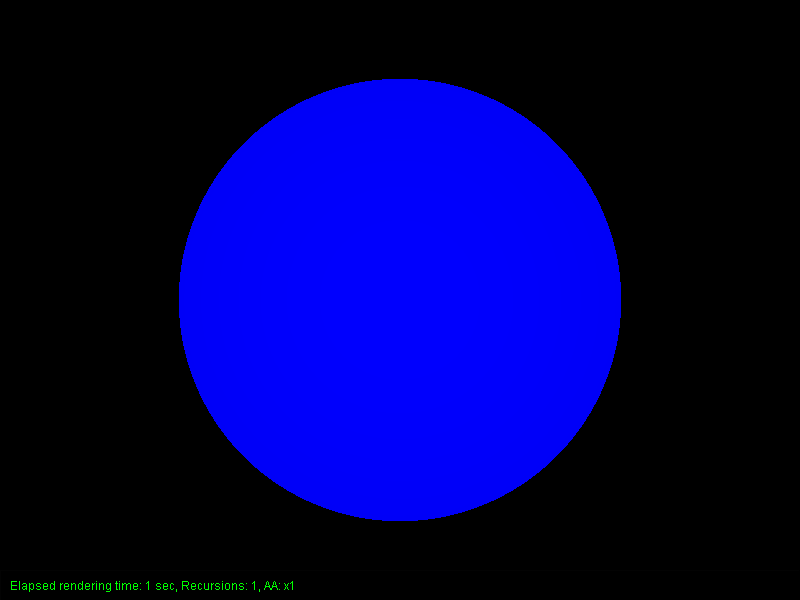
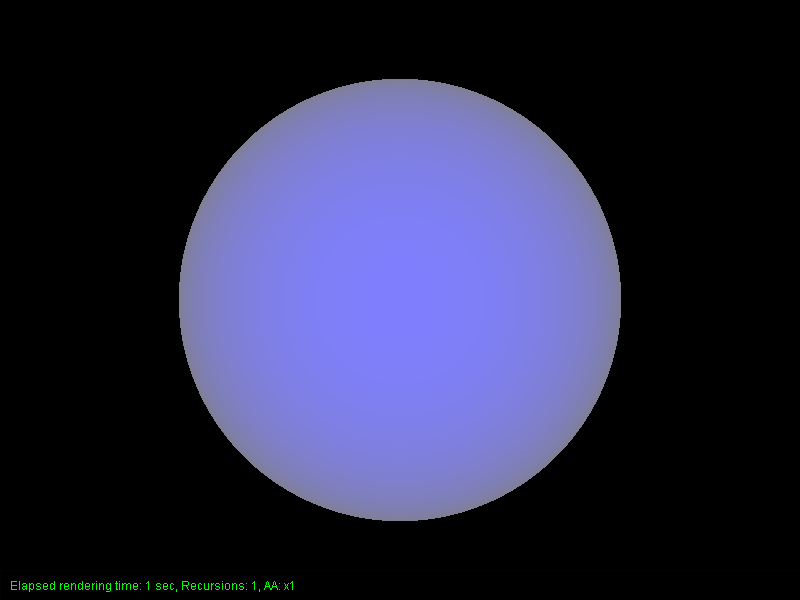
wip

diff --git a/VCG_Raytracer/src/raytracer/Raytracer.java b/VCG_Raytracer/src/raytracer/Raytracer.java
@@ -90,15 +90,37 @@ public class Raytracer {
     /** Create intersection instance **/
     public Intersection intersect(double hitValue, Ray ray, Shape shape) {
         Intersection intersection = new Intersection();
+        float rayTValue = ray.getT();
+        if (rayTValue == Float.NaN) {
+            intersection.setHit(false);
+            return intersection;
+        }
+        intersection.setShape(shape);
         if (hitValue >= 0)
             intersection.setHit(true);
         else
             intersection.setHit(false);
-        intersection.setShape(shape);
         if (intersection.isHit()) {
-            intersection.setIntersectionPoint(ray.getDirection().multScalar(ray.getT()));
+            intersection.setIntersectionPoint(ray.getStartPoint().add(ray.getDirection().multScalar(ray.getT())));
             intersection.setNormal(intersection.getIntersectionPoint().sub(shape.getCenter()));
         }
+        return intersection;
+    }
+
+    /** Check light intersection **/
+    public Intersection intersectLight(Vec3 _intersectionPoint, Light _light, Shape shape) {
+        Ray ray = new Ray(_intersectionPoint, _intersectionPoint.sub(_light.getPosition()), 1);
+        Intersection intersection = new Intersection();
+        Vec3 part1 = _light.getPosition().sub(_intersectionPoint);
+
+        // WIP NAMES CAN CHANGE
+        float part2 = part1.x + part1.y + part1.z;
+        float part3 = ray.getDirection().x + ray.getDirection().y + ray.getDirection().z;
+        float rayTValue = part2/part3;
+        ray.setT(rayTValue);
+        intersection.setIntersectionPoint(ray.getStartPoint().add(ray.getDirection().multScalar(ray.getT())));
+        intersection.setNormal(intersection.getIntersectionPoint().sub(shape.getCenter()));
+
         return intersection;
     }
 
@@ -110,7 +132,6 @@ public class Raytracer {
         double height = camera.getHeight();
         float screenHeight = camera.getScreenHeight();
         float screenWidth = camera.getScreenWidth();
-        ArrayList<Light> lights = mScene.getLights();
 
         // Set up variables for our raytracing
         float deltaX;
@@ -120,6 +141,7 @@ public class Raytracer {
         Vec3 direction;
         Vec3 cameraDirection;
         Vec3 lightVector;
+        RgbColor pixelColor = null;
 
         // Iterate through every pixel
         for(int y = 0; y < screenHeight; y++) {
@@ -143,19 +165,22 @@ public class Raytracer {
                      * If we hit the object, we paint another color
                      */
                     if (intersection.isHit()) {
-                        for (Light light : lights) {
+                        for (Light light : mScene.getLights()) {
+                            // Objekt das wir uns gerade anschauen nicht mit sich selbst schneiden, vorher prüfen welches shape
                             switch (object.getMaterial()) {
                                 case "normal":
-                                    mRenderWindow.setPixel(mRenderWindow.getBufferedImage(), RgbColor.YELLOW, new Vec2(x,y));
+                                    pixelColor = RgbColor.YELLOW;
                                     break;
                                 case "lambert":
-                                    Lambert lambert = new Lambert(RgbColor.BLACK,0.25f, RgbColor.CYAN, 1f, intersection.getNormal(), intersection.getIntersectionPoint() , light);
-                                    mRenderWindow.setPixel(mRenderWindow.getBufferedImage(), lambert.getRGB(light), new Vec2(x,y));
+                                    Intersection lightIntersection = intersectLight(intersection.getIntersectionPoint(), light, object);
+                                    Lambert lambert = new Lambert(RgbColor.WHITE, 0.5f, RgbColor.YELLOW, 0.5f, intersection.getNormal(), intersection.getIntersectionPoint(), light);
+                                    pixelColor = lambert.getRGB(light);
                                     break;
                                 default:
                                     //do nothing
                             }
                         }
+                        mRenderWindow.setPixel(mRenderWindow.getBufferedImage(), pixelColor, new Vec2(x, y));
                     } else {
                         mRenderWindow.setPixel(mRenderWindow.getBufferedImage(), mBackgroundColor, new Vec2(x,y));
                     }

diff --git a/VCG_Raytracer/src/Main.java b/VCG_Raytracer/src/Main.java
@@ -77,7 +77,7 @@ public class Main {
     static final int GI_SAMPLES = 0;
 
     static final RgbColor LIGHT_COLOR = null;
-    static final RgbColor AMBIENT_LIGHT = RgbColor.RED;
+    static final RgbColor AMBIENT_LIGHT = null;
 
     static final boolean USE_AO = false;
     static final int NUMBER_OF_AO_SAMPLES = 0;
@@ -124,9 +124,12 @@ public class Main {
     }
 
     private static void setupLights(Scene renderScene) {
-        renderScene.createPointLight(new Vec3 (20,0,0), new RgbColor(1.0f, 0.0f, 0.0f));
-        renderScene.createPointLight(new Vec3 (0,20,0), new RgbColor(0.0f, 1.0f, 0.0f));
-        renderScene.createPointLight(new Vec3 (0,0,20), new RgbColor(0.0f, 0.0f, 1.0f));
+        renderScene.createPointLight(new Vec3 (3,0,0), new RgbColor(1.0f, 0.0f, 0.0f));
+        renderScene.createPointLight(new Vec3 (0,3,0), new RgbColor(0.0f, 1.0f, 0.0f));
+        renderScene.createPointLight(new Vec3 (0,0,3), new RgbColor(0.0f, 0.0f, 1.0f));
+        for(Light light : renderScene.getLights()) {
+            System.out.println("LIGHT ARRAY : " + light.getColor() + "  POS :  " + light.getPosition());
+        }
     }
 
     private static void setupCameras(Scene renderScene) {

diff --git a/VCG_Raytracer/src/scene/Sphere.java b/VCG_Raytracer/src/scene/Sphere.java
@@ -60,7 +60,24 @@ public class Sphere extends Shape {
         if (discriminant < 0) {
             return Double.NaN;
         } else {
-            return discriminant;
+            float t0 = (float) ((-(raySphereEquation1)-Math.sqrt(Math.pow(raySphereEquation1,2)-4*raySphereEquation2))/2);
+            float t1 = (float) ((-(raySphereEquation1)+Math.sqrt(Math.pow(raySphereEquation1,2)-4*raySphereEquation2))/2);
+
+            if (discriminant == 0) {
+                // It does not matter which t we take since both are equal
+                ray.setT(t0);
+            } else if (discriminant > 0) {
+                if (t0 > 0 && t1 > 0) {
+                    ray.setT(Math.max(t0, t1));
+                } else if (t0 < 0 && t1 < 0) {
+                    ray.setT(Float.NaN);
+                } else if (t0 < 0 && t1 > 0) {
+                    ray.setT(t1);
+                } else if (t0 > 0 && t1 < 0) {
+                    ray.setT(t0);
+                }
+            }
         }
+        return discriminant;
     }
 }

diff --git a/VCG_Raytracer/src/scene/material/Lambert.java b/VCG_Raytracer/src/scene/material/Lambert.java
@@ -12,12 +12,12 @@ public class Lambert extends Material {
     public Lambert(RgbColor _ambientLight, float _ambientCoefficent, RgbColor _diffuseLight, float _diffuseCoefficent, Vec3 _normal, Vec3 _intersectionPoint, Light _light) {
         super(_ambientLight, _diffuseLight, _ambientCoefficent, _diffuseCoefficent, _normal, _intersectionPoint);
         this.lightPosition = _light.getPosition();
-        this.lightVector = intersectionPoint.sub(lightPosition);
+        this.lightVector = intersectionPoint.sub(lightPosition).normalize();
     }
 
     public RgbColor getRGB(Light light) {
         RgbColor ambient = mAmbientLight.multScalar(mAmbientCoefficent);
-        RgbColor diffuse = (light.getColor().multScalar(mDiffuseCoefficent)).multScalar(normal.scalar(lightVector.normalize()));
+        RgbColor diffuse = light.getColor().multScalar(mDiffuseCoefficent).multScalar(normal.scalar(lightVector));
 
         return ambient.add(diffuse);
     }

diff --git a/VCG_Raytracer/src/utils/Intersection.java b/VCG_Raytracer/src/utils/Intersection.java
@@ -34,7 +34,7 @@ public class Intersection {
     }
 
     public void setNormal(Vec3 normal) {
-        this.normal = normal;
+        this.normal = normal.normalize();
     }
 
     public Vec3 getInRay() {
